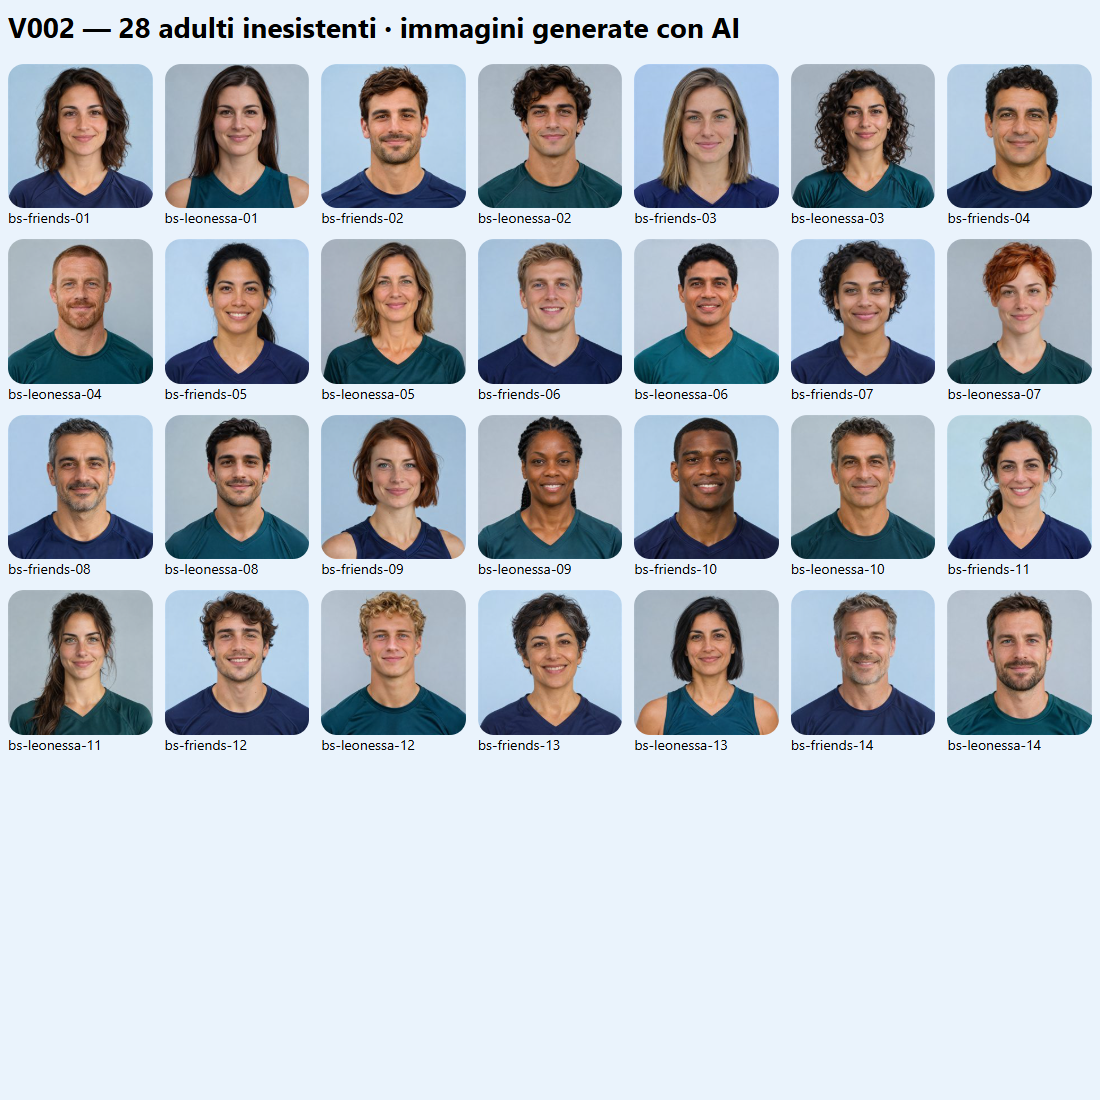
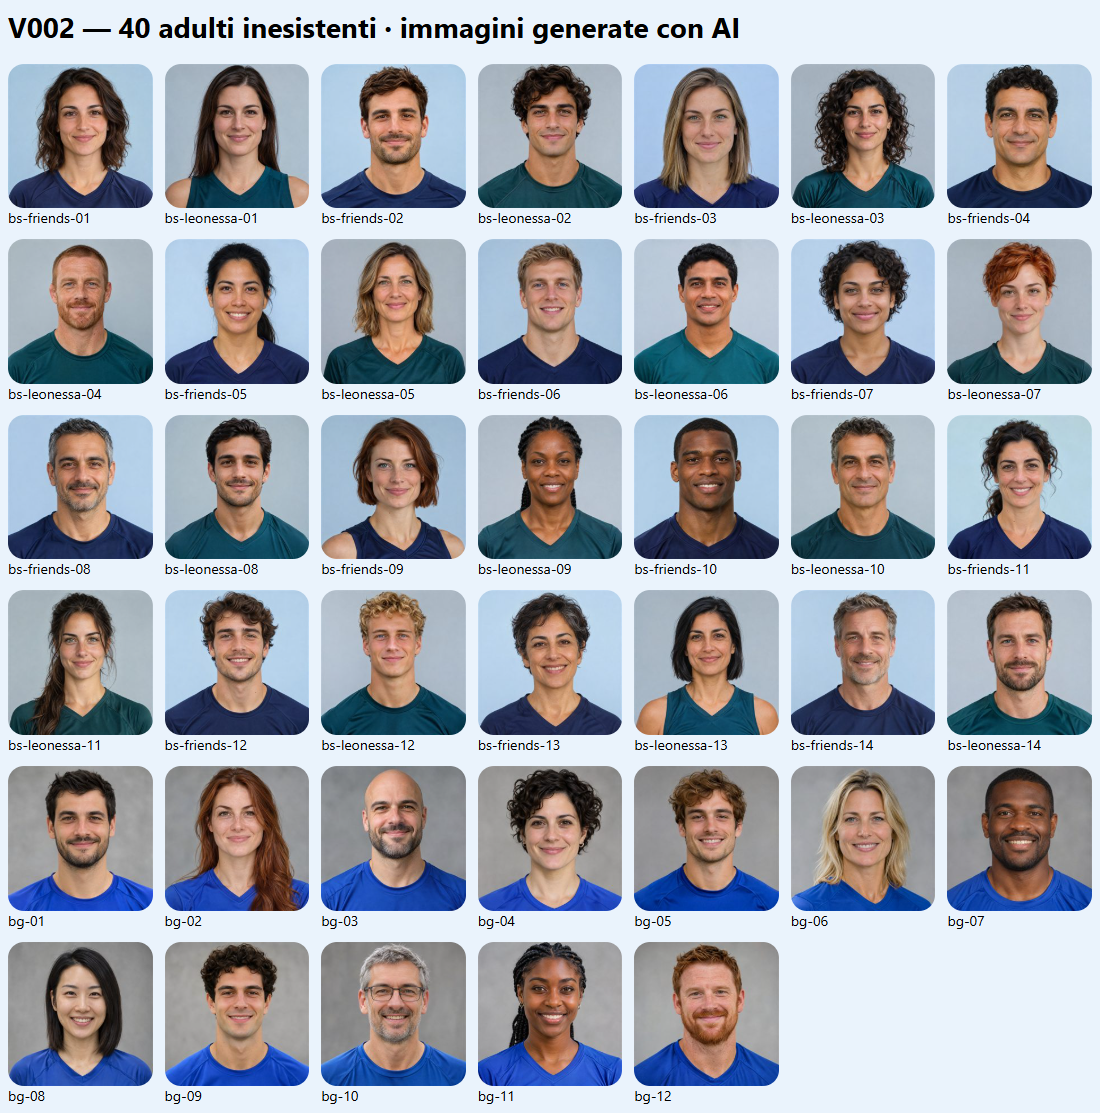
Completa 40 ritratti demo e aggiorna le sessioni V002 esistenti

diff --git a/prototypes/staseravolley-fabio/v002/app.js b/prototypes/staseravolley-fabio/v002/app.js
@@ -1,4 +1,4 @@
-import {createSeed} from './data.js';
+import {createSeed,upgradeDemoPhotos} from './data.js';
 import {transition,reconcile,STATE_KEY,SETTINGS_KEY,canManage,myBooking} from './core.js';
 import {translator,missingKeys} from './translations.js';
 import {buildViews,h} from './views.js';
@@ -15,7 +15,7 @@ function validateState(value){return value?.schemaVersion===1&&['profiles','grou
 function store(next){localStorage.setItem(STATE_KEY,JSON.stringify(next));s=next;}
 function saveSettings(){localStorage.setItem(SETTINGS_KEY,JSON.stringify(settings));}
 function setTheme(){document.body.dataset.preview=settings.preview||'auto';document.body.dataset.theme=settings.theme==='dark'||settings.theme==='auto'&&matchMedia('(prefers-color-scheme: dark)').matches?'dark':'light';}
-function load(){try{const raw=localStorage.getItem(STATE_KEY);s=raw?JSON.parse(raw):createSeed();if(!validateState(s))throw Error('invalidStorage');for(const asset of avatarManifest){const profile=s.profiles[asset.personId];if(profile?.photo===asset.src.replace('.jpg','.webp'))profile.photo=asset.src;}const stored=localStorage.getItem(SETTINGS_KEY);if(stored){const value=JSON.parse(stored);settings={...defaults,language:value.language==='en'?'en':'it',theme:['light','dark','auto'].includes(value.theme)?value.theme:'auto',preview:['auto','mobile','tablet','desktop'].includes(value.preview)?value.preview:'auto',actorId:s.profiles[value.actorId]?value.actorId:'demo-you'};}store(reconcile(s));saveSettings();t=translator(settings.language);setTheme();}catch(e){fatal=true;}}
+function load(){try{const raw=localStorage.getItem(STATE_KEY);s=raw?JSON.parse(raw):createSeed();if(!validateState(s))throw Error('invalidStorage');upgradeDemoPhotos(s,avatarManifest);for(const asset of avatarManifest){const profile=s.profiles[asset.personId];if(profile?.photo===asset.src.replace('.jpg','.webp'))profile.photo=asset.src;}const stored=localStorage.getItem(SETTINGS_KEY);if(stored){const value=JSON.parse(stored);settings={...defaults,language:value.language==='en'?'en':'it',theme:['light','dark','auto'].includes(value.theme)?value.theme:'auto',preview:['auto','mobile','tablet','desktop'].includes(value.preview)?value.preview:'auto',actorId:s.profiles[value.actorId]?value.actorId:'demo-you'};}store(reconcile(s));saveSettings();t=translator(settings.language);setTheme();}catch(e){fatal=true;}}
 function syncTime(){if(!s||fatal)return;const updated=reconcile(s);if(updated!==s){try{store(updated);render();}catch{showMessage('storageError');}}}
 function perform(action,p={}){try{const persisted=JSON.parse(localStorage.getItem(STATE_KEY)||'null');if(persisted&&persisted.revision!==s.revision){if(!validateState(persisted))throw Error('invalidStorage');store(reconcile(persisted));render();showMessage('conflict');return false;}const current=reconcile(s);if(current!==s)store(current);const next=transition(s,settings.actorId,action,p);store(next);render();return true;}catch(e){render();showMessage(typeof e.code==='string'?e.code:(['invalidStorage'].includes(e.message)?e.message:'storageError'));return false;}}
 function toast(key){clearTimeout(toastTimer);$('#toastText').textContent=t(key);$('#toast').hidden=false;toastTimer=setTimeout(()=>$('#toast').hidden=true,3400);}
@@ -88,4 +88,5 @@ window.addEventListener('focus',syncTime);document.addEventListener('visibilityc
 load();render();
 // Read-only diagnostics used by the local QA suite; no production APIs exist.
 globalThis.SV002={getState:()=>structuredClone(s),getSettings:()=>({...settings}),missingTranslations:()=>[...missingKeys],keys:{state:STATE_KEY,settings:SETTINGS_KEY}};
+
 

diff --git a/prototypes/staseravolley-fabio/v002/avatar-manifest.js b/prototypes/staseravolley-fabio/v002/avatar-manifest.js
@@ -251,5 +251,113 @@ export const avatarManifest=[
     "adult": true,
     "bytes": 11083,
[1 lines of base64/hex data omitted]
+  },
+  {
+    "personId": "bg-01",
+    "src": "assets/avatars/bg-01.jpg",
+    "status": "generated",
+    "artificial": true,
+    "adult": true,
+    "bytes": 10920,
[1 lines of base64/hex data omitted]
+  },
+  {
+    "personId": "bg-02",
+    "src": "assets/avatars/bg-02.jpg",
+    "status": "generated",
+    "artificial": true,
+    "adult": true,
+    "bytes": 12745,
[1 lines of base64/hex data omitted]
+  },
+  {
+    "personId": "bg-03",
+    "src": "assets/avatars/bg-03.jpg",
+    "status": "generated",
+    "artificial": true,
+    "adult": true,
+    "bytes": 10290,
[1 lines of base64/hex data omitted]
+  },
+  {
+    "personId": "bg-04",
+    "src": "assets/avatars/bg-04.jpg",
+    "status": "generated",
+    "artificial": true,
+    "adult": true,
+    "bytes": 11928,
[1 lines of base64/hex data omitted]
+  },
+  {
+    "personId": "bg-05",
+    "src": "assets/avatars/bg-05.jpg",
+    "status": "generated",
+    "artificial": true,
+    "adult": true,
+    "bytes": 10662,
[1 lines of base64/hex data omitted]
+  },
+  {
+    "personId": "bg-06",
+    "src": "assets/avatars/bg-06.jpg",
+    "status": "generated",
+    "artificial": true,
+    "adult": true,
+    "bytes": 11755,
[1 lines of base64/hex data omitted]
+  },
+  {
+    "personId": "bg-07",
+    "src": "assets/avatars/bg-07.jpg",
+    "status": "generated",
+    "artificial": true,
+    "adult": true,
+    "bytes": 10789,
[1 lines of base64/hex data omitted]
+  },
+  {
+    "personId": "bg-08",
+    "src": "assets/avatars/bg-08.jpg",
+    "status": "generated",
+    "artificial": true,
+    "adult": true,
+    "bytes": 10697,
[1 lines of base64/hex data omitted]
+  },
+  {
+    "personId": "bg-09",
+    "src": "assets/avatars/bg-09.jpg",
+    "status": "generated",
+    "artificial": true,
+    "adult": true,
+    "bytes": 10751,
[1 lines of base64/hex data omitted]
+  },
+  {
+    "personId": "bg-10",
+    "src": "assets/avatars/bg-10.jpg",
+    "status": "generated",
+    "artificial": true,
+    "adult": true,
+    "bytes": 11467,
[1 lines of base64/hex data omitted]
+  },
+  {
+    "personId": "bg-11",
+    "src": "assets/avatars/bg-11.jpg",
+    "status": "generated",
+    "artificial": true,
+    "adult": true,
+    "bytes": 12407,
[1 lines of base64/hex data omitted]
+  },
+  {
+    "personId": "bg-12",
+    "src": "assets/avatars/bg-12.jpg",
+    "status": "generated",
+    "artificial": true,
+    "adult": true,
+    "bytes": 11445,
[1 lines of base64/hex data omitted]
   }
 ];

diff --git a/prototypes/staseravolley-fabio/v002/data.js b/prototypes/staseravolley-fabio/v002/data.js
@@ -19,9 +19,15 @@ export function addSeedMatch(s,g,now){const date=nextDate(g.weekday,g.start,now)
 export function createSeed(now=Date.now()){
  const s={schemaVersion:1,revision:0,seq:100,config:{holdHours:24},authorizedAdmins:['demo-admin'],profiles:{},groups:{},memberships:{},matches:{},bookings:{},requests:{},notifications:{},history:[],payments:{},invitations:{},ratings:{}};
  const profile=(id,name,i,city,photo=null)=>({id,name,city,photo,demo:true,adult:true,role:ROLES[i%ROLES.length],level:i%2?'intermediate':'beginner',bioKey:'demoBio',bio:'',strengths:['attack','reception'],days:[2,4],available:true});
- bgNames.forEach((name,i)=>{const id=`bg-${String(i+1).padStart(2,'0')}`;s.profiles[id]=profile(id,name,i,'Bergamo');});
+ bgNames.forEach((name,i)=>{const id=`bg-${String(i+1).padStart(2,'0')}`;s.profiles[id]={...profile(id,name,i,'Bergamo',`assets/avatars/${id}.jpg`),avatarSeedV2:true};});
  for(const [prefix,names] of [['bs-friends',friends],['bs-leonessa',leonessa]])names.forEach((name,i)=>{const id=`${prefix}-${String(i+1).padStart(2,'0')}`;s.profiles[id]=profile(id,name,i,'Brescia',`assets/avatars/${id}.jpg`);});
  s.profiles['demo-you']=profile('demo-you','Giocatore Demo',0,'Bergamo');s.profiles['demo-admin']=profile('demo-admin','Amministratore Demo',5,'Bergamo');
  for(const seed of GROUP_SEEDS){const g={...seed,demo:true,storyKey:seed.id.startsWith('bs-')?'bresciaStory':'bergamoStory',description:'',history:'',adminIds:[],createdAt:new Date(now).toISOString()};s.groups[g.id]=g;for(const personId of seedPeople(g.id))s.memberships[`${g.id}:${personId}`]={groupId:g.id,personId,status:'active',role:personId===g.ownerId?'organizer':'member'};addSeedMatch(s,g,now);}
  const pastDate=addDays(dateKey(now),-2),past={id:'demo-past-voltaren',groupId:'bg-voltaren',date:pastDate,venue:s.groups['bg-voltaren'].venue,city:'Bergamo',...times(pastDate,'20:30','22:30'),priceCents:700,capacity:12,status:'finished',seeded:false};s.matches[past.id]=past;s.bookings['demo-past-you']={id:'demo-past-you',personId:'demo-you',matchId:past.id,slot:'p1',status:'confirmed',priceCents:700,paymentStatus:'unpaid',requestId:null,createdAt:past.startsAt};['bg-01','bg-02','bg-03'].forEach((personId,i)=>{const bid='demo-past-'+personId;s.bookings[bid]={id:bid,personId,matchId:past.id,slot:FIELD[i+1],status:'confirmed',priceCents:700,paymentStatus:'unpaid',requestId:null,createdAt:past.startsAt};});return s;
+}
+// One-time upgrade of existing V002 demo profiles only. User uploads and
+// intentional removals after the upgrade survive every subsequent reload.
+export function upgradeDemoPhotos(state,manifest){
+ for(const asset of manifest){const p=state.profiles[asset.personId];if(!p?.demo||!asset.personId.startsWith('bg-')||p.avatarSeedV2||asset.status!=='generated')continue;if(!p.photo)p.photo=asset.src;p.avatarSeedV2=true;}
+ return state;
 }

diff --git a/prototypes/staseravolley-fabio/v002/README.md b/prototypes/staseravolley-fabio/v002/README.md
@@ -29,7 +29,7 @@ Aprire http://127.0.0.1:4192/v002/ sul computer che esegue il server. Non aprire
 - `core.js`: transizioni validate, autorizzazioni locali, prenotazioni, scadenze, notifiche, pagamenti e storico.
 - `data.js`, `dates.js`: dati demo con identificativi stabili, date Europe/Rome, ricorrenze e festività.
 - `views.js`, `translations.js`: viste senza mutazioni e cataloghi IT/EN centralizzati.
-- `assets/avatars/`, `avatar-manifest.js`: 28 ritratti locali di adulti inesistenti generati con ImageGen, JPEG 256×256, associazioni stabili e fallback con iniziali.
+- `assets/avatars/`, `avatar-manifest.js`: 40 ritratti locali di adulti inesistenti generati con ImageGen, JPEG 256×256, associazioni stabili e fallback con iniziali.
 - `tests/`, `tools/`: verifiche, server locale e ottimizzazione asset.
 - `docs/`: risultati, screenshot, inventario SHA-256 e snapshot inattivi della base V001 per confronto. I documenti V001 copiati descrivono la versione precedente, non la V002.
 
@@ -39,10 +39,10 @@ La disponibilità deriva da prenotazioni confermate e blocchi temporanei non sca
 
 ## Verifiche eseguite
 
-- 23 test di modello/rendering: `node --test tests/core.test.mjs`.
+- 24 test di modello/rendering: `node --test tests/core.test.mjs`.
 - 14 verifiche browser Edge: `node tests/browser.mjs` (incluso inventario versioni).
 - 4 verifiche robuste: `node tests/robustness.mjs` (quota esaurita, dati corrotti, upload/rimozione e isolamento V001).
-- Verifica dei 28 asset e associazioni: `node tests/avatars.mjs`.
+- Verifica dei 40 asset e associazioni: `node tests/avatars.mjs`.
 - Controllo perimetro/hash: `node tools/verify-scope.mjs`.
 
 I test browser richiedono Playwright e Microsoft Edge. Se Playwright non è installato localmente, indicare il suo modulo con la variabile `PLAYWRIGHT_MODULE`. Nessuna dipendenza è stata installata nel repository. I report JSON e gli screenshot alle larghezze 390/820/1440, nei due temi, sono in `docs/`. Gli screenshot full-page mostrano la barra inferiore fissa all'altezza del viewport iniziale, come durante lo scorrimento.
@@ -56,3 +56,4 @@ I test browser richiedono Playwright e Microsoft Edge. Se Playwright non è inst
 - Il cambio anno/date mantiene prossime serate demo future senza duplicarle a ogni caricamento. Le vecchie serate e lo storico rimangono consultabili; gli orari sono Europe/Rome.
 
 Nessun commit, push, merge o deployment effettuato. V000 e V001 verificate con inventario e SHA-256 nel report `docs/final-verification.json`.
+
